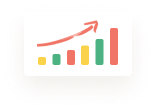
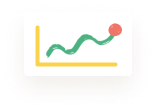
features page

Changed region(s): [[0.2051, 0.1875, 0.7949, 0.6161]]

diff --git a/src/components/Features.tsx b/src/components/Features.tsx
@@ -1,0 +1,42 @@
+// import womanImg05x from "../assets/woman@05x.png"
+
+import womanImg from "../assets/woman2.png"
+import womanImg1 from "../assets/woman.png"
+import icon from "../assets/icon3.png"
+import graphicon from "../assets/graphwoman2.png"
+import Rectangle from "../assets/Rectangle.png"
+import star from "../assets/star.png"
+
+
+const Features = () => {
+    return (
+        <div className='hero flex max-w-[1200px] mx-auto h-[100vh] items-start'>
+            <div className="font-WorkSans w-1/2 pt-16">
+                <h4 className="text-xl text-red-400 font-semibold" data-aos="fade-right" data-aos-duration="500" >Features</h4>
+                <h2 className="text-6xl font-semibold" data-aos="fade-right" data-aos-duration="1200" >
+                    Smart Complex Solutions
+                </h2>
+                <p className="text-primary-50 max-w-[500px] mt-5" data-aos="fade-right" data-aos-duration="2000">
+                    Stars had ceased to twinkle the same illusion which lifts the horizon of the sea to the level of t
+                    he spectator on a hillside, the sable cloud beneath was dished out.
+                </p>
+                <div className="mt-6 shadow-lg p-6 rounded-lg" data-aos="fade-right" data-aos-duration="2200">
+                    <div className="flex items-center gap-3 text-2xl font-semibold">
+                        <img src={star} alt="star icon" /> <h3>Modern Technology</h3>
+                    </div>
+                    <p className="text-primary-50 max-w-[500px] ">The sky was cloudless and of a deep dark blue the spectacle before us was indeed sublime.</p>
+                </div>
+            </div>
+            <div className="w-1/2 relative z-10">
+                <img className="absolute top-[150px] right-4 h-[350px]" src={womanImg1} alt="icon woman" data-aos="fade-up-left" />
+                <img className="absolute top-[-10px] right-0" src={Rectangle} alt="icon woman" data-aos="fade-down-left" />
+                <img className="absolute top-0 right-7" src={womanImg} alt="icon woman" height="400px" data-aos="zoom-in" />
+                <img className="absolute top-[200px] left-[50px]" data-aos="fade-right" src={icon} alt="icon woman" />
+                <img className="absolute  top-[400px] left-[150px]" data-aos="fade-up-right" src={graphicon} alt="icon woman" />
+            </div>
+        </div>
+
+    )
+}
+
+export default Features;

diff --git a/src/App.tsx b/src/App.tsx
@@ -4,7 +4,8 @@ import 'aos/dist/aos.css';
 import Navbar from './components/Navbar';
 import Hero from './components/Hero';
 import About from './components/About';
-import Portfolio from './components/AboutCards';
+import AboutCards from './components/AboutCards';
+import Features from './components/Features';
 
 
 const MyComponent: React.FC = () => {
@@ -19,7 +20,8 @@ const MyComponent: React.FC = () => {
         <Navbar />
         <Hero />
         <About />
-        <Portfolio />
+        <AboutCards />
+        <Features />
     </>
   );
 };
